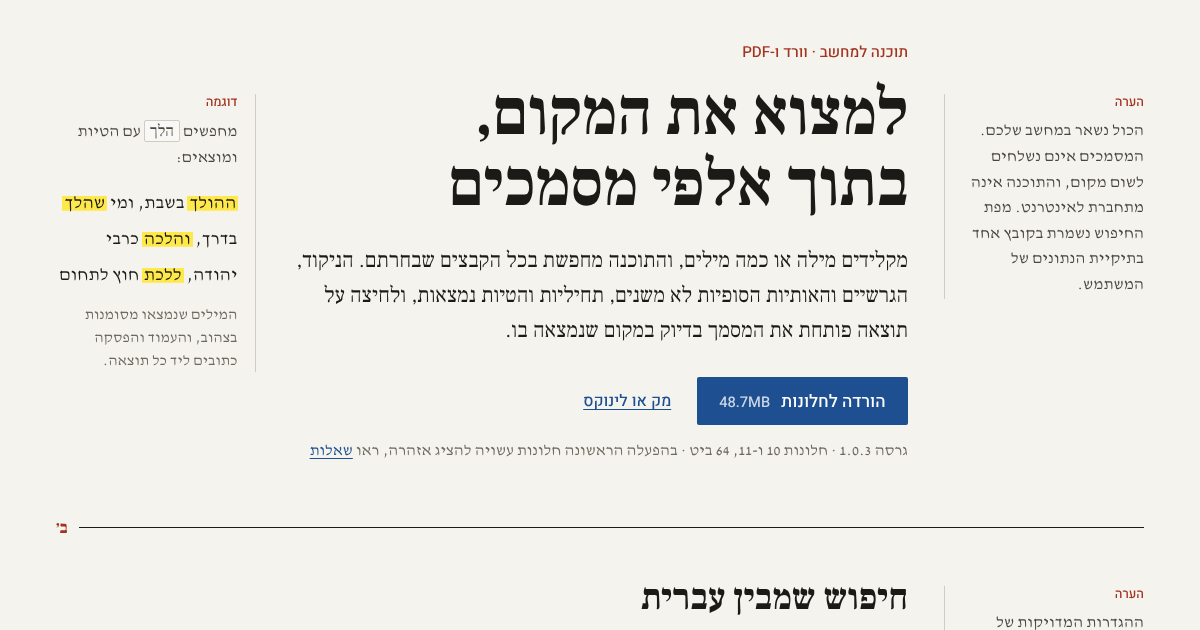
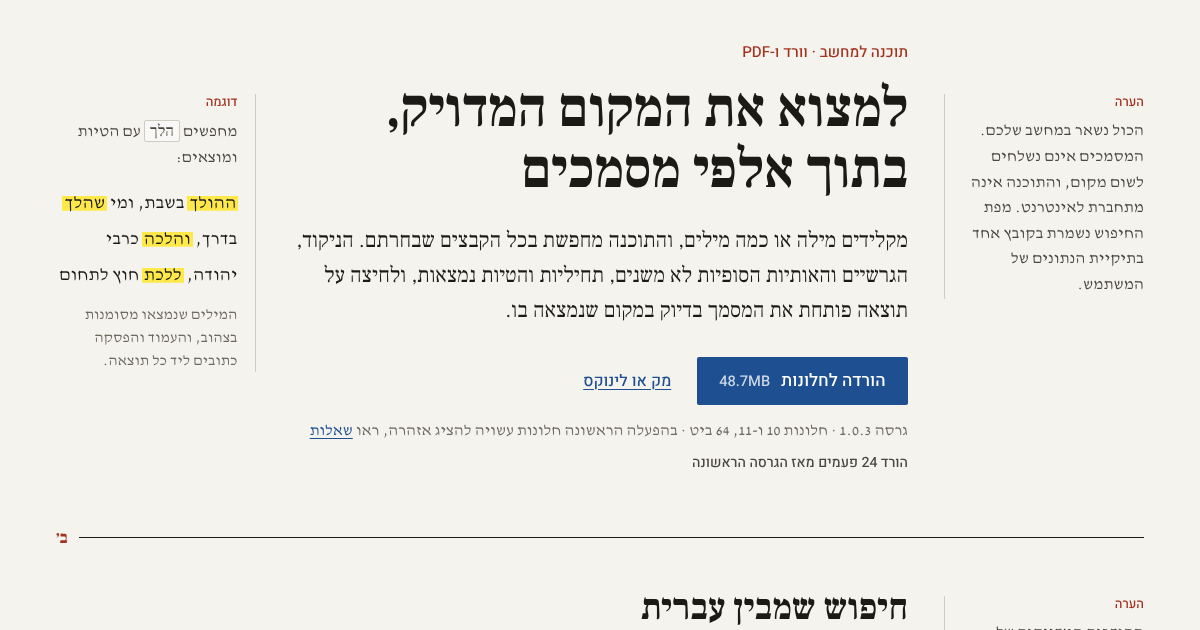
word-search site: headline 'למצוא את המקום המדויק'
Claude-Session: https://claude.ai/code/session_01XKwsMm7EMvBXZ1QsWhtjE6

diff --git a/word-search/site/css/site.css b/word-search/site/css/site.css
@@ -152,12 +152,12 @@ main { max-width: var(--page); margin: 0 auto; padding: 0 2rem; }
 .daf-hero .rashi, .daf-hero .tosafot { margin-top: 3.3rem; }
 .kicker { font: 500 .95rem/1.4 var(--label); color: var(--red); margin-bottom: 1rem; }
 h1 {
-  font-size: clamp(2.5rem, 1.4rem + 3.6vw, 4.1rem);
-  line-height: 1.08;
+  font-size: clamp(2.3rem, 1.2rem + 3vw, 3.55rem);
+  line-height: 1.1;
   letter-spacing: -.005em;
   margin-bottom: 1.4rem;
-  max-width: 13ch;
 }
+@media (max-width: 40rem) { .br-wide { display: none; } }
 .lead { font-size: 1.36rem; line-height: 1.62; color: var(--ink); max-width: 34em; margin-bottom: 1.8rem; }
 
 .cta-row { display: flex; flex-wrap: wrap; align-items: center; gap: .9rem 1.6rem; margin-bottom: .9rem; }
@@ -319,7 +319,6 @@ thead th { font: 500 .82rem/1.4 var(--label); color: var(--ink-3); border-bottom
   .daf-plate > .gemara p { max-width: 38em; }
   .daf-plate.rev > .plate { justify-self: start; }
   .daf-video { grid-template-areas: "gemara"; }
-  h1 { max-width: 16ch; }
 }
 
 @media (max-width: 40rem) {

diff --git a/word-search/site/index.html b/word-search/site/index.html
@@ -39,7 +39,7 @@
 
   <div class="gemara">
     <p class="kicker">תוכנה למחשב · וורד ו-PDF</p>
-    <h1 id="h-title">למצוא את המקום, בתוך אלפי מסמכים</h1>
+    <h1 id="h-title">למצוא את המקום המדויק,<br class="br-wide"> בתוך אלפי מסמכים</h1>
     <p class="lead">מקלידים מילה או כמה מילים, והתוכנה מחפשת בכל הקבצים שבחרתם. הניקוד, הגרשיים והאותיות הסופיות לא משנים, תחיליות והטיות נמצאות, ולחיצה על תוצאה פותחת את המסמך בדיוק במקום שנמצאה בו.</p>
     <p class="cta-row">
       <a class="btn" id="dl-main" href="https://github.com/motiml77/haraya-redesign/releases/download/word-search-v1.0.3/HebDocSearch-Setup-1.0.3.exe">הורדה לחלונות <span class="size">48.7MB</span></a>
